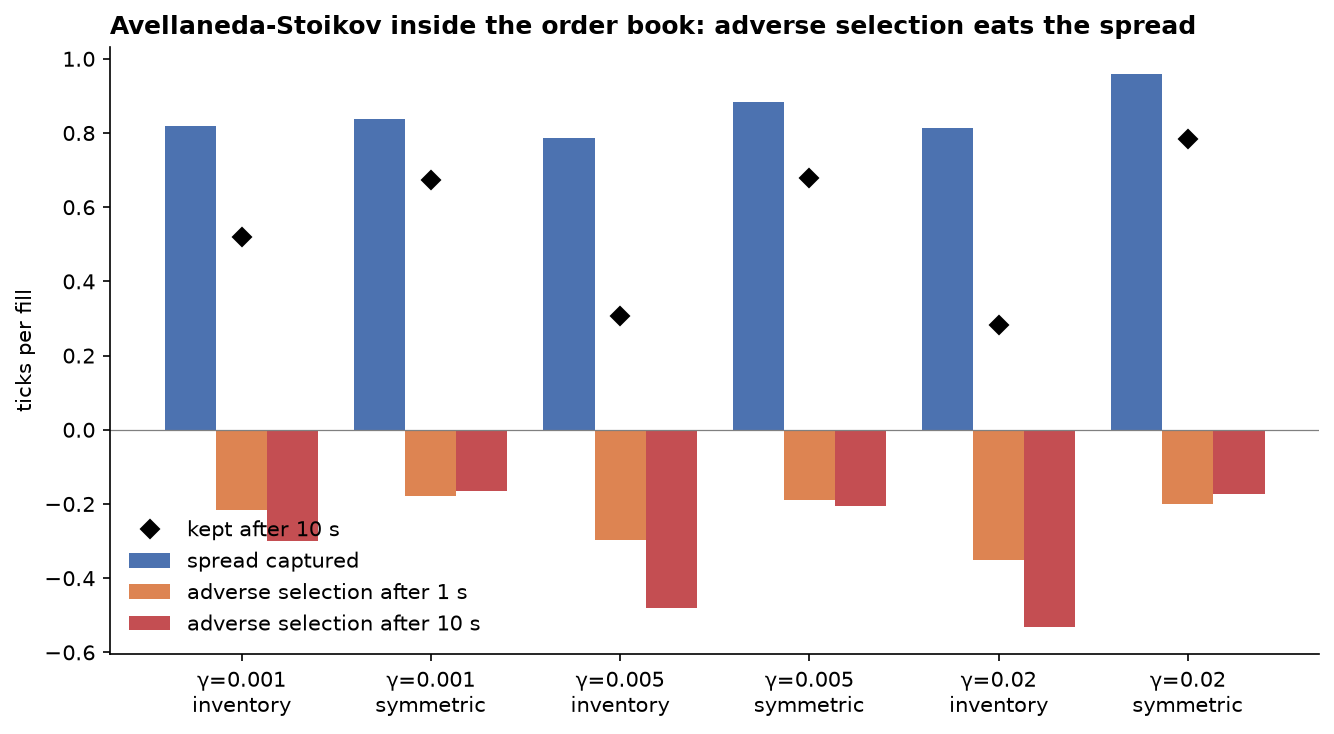
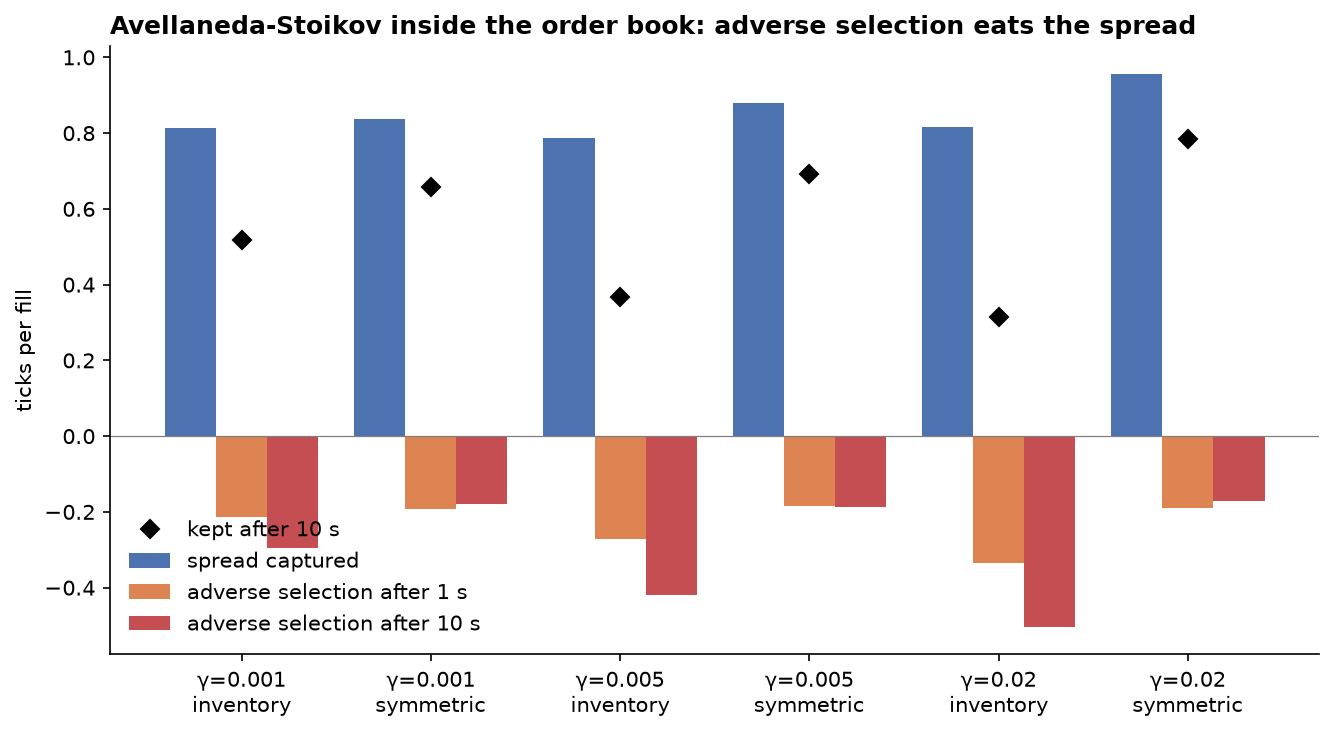
docs: rerun Study 4 with 2,500 episodes per row (#12)
The 200-episode table was noisy: the gamma=0.005 inventory mean (19.4,
seeds 0-199) is about 3.5 standard errors below its 2,500-episode value
(22.6 +/- 0.26), found by quant-stack's S7. Example 05 now runs 2,500
episodes per row; the table, the chart and every range quoted from them
are regenerated. Inventory control costs 32-40% of mean P&L (was 33-45%);
the conclusions are unchanged. No package code changes.

diff --git a/examples/05_market_making_in_lob.py b/examples/05_market_making_in_lob.py
@@ -20,7 +20,7 @@ rows = []
 for gamma in (0.001, 0.005, 0.02):
     p = ASParams(T=300.0, sigma=sigma, gamma=gamma, k=k, A=A)
     for strategy in ("inventory", "symmetric"):
-        d = simulate_as_lob(p, strategy, n_episodes=200)
+        d = simulate_as_lob(p, strategy, n_episodes=2500)
         rows.append({"gamma": gamma, "strategy": strategy, "spread_t0": optimal_spread(0, p),
                      "mean_pnl": d["pnl"].mean(), "std_pnl": d["pnl"].std(), "std_final_q": d["final_q"].std(),
                      "fills": d["n_fills"].mean(), "spread_capture": d["spread_capture"].mean(),

diff --git a/README.md b/README.md
@@ -176,34 +176,34 @@ order reaches it.
 
 The paper's inputs are calibrated on the book itself: σ = 1.08 ticks/√s from 1-second mid
 changes; A = 0.59 fills/s and k = 1.39 per tick from a quoter resting at fixed distances from the
-mid. Episodes last T = 300 s, 200 per row:
+mid. Episodes last T = 300 s, 2,500 per row:
 
 | γ | Strategy | Mean P&L | Std P&L | Std final inventory | Fills | Spread captured | Adverse sel. 1 s | Adverse sel. 10 s | Kept |
 |---|---|---|---|---|---|---|---|---|---|
-| 0.001 | inventory | 30.1 | 25.9 | 4.0 | 71 | 0.82 | −0.21 | −0.30 | 63% |
-| 0.001 | symmetric | 46.5 | 58.3 | 7.2 | 70 | 0.84 | −0.18 | −0.17 | 80% |
-| **0.005** | **inventory** | **19.4** | **13.3** | **2.4** | **64** | **0.79** | **−0.30** | **−0.48** | **39%** |
-| **0.005** | **symmetric** | **28.9** | **59.0** | **6.9** | **51** | **0.88** | **−0.19** | **−0.20** | **77%** |
-| 0.02 | inventory | 8.0 | 7.5 | 1.4 | 26 | 0.81 | −0.35 | −0.53 | 35% |
-| 0.02 | symmetric | 14.5 | 25.9 | 4.1 | 18 | 0.96 | −0.20 | −0.17 | 82% |
+| 0.001 | inventory | 31.6 | 24.6 | 3.7 | 72 | 0.81 | −0.21 | −0.30 | 64% |
+| 0.001 | symmetric | 46.2 | 66.7 | 7.4 | 70 | 0.84 | −0.19 | −0.18 | 79% |
+| **0.005** | **inventory** | **22.6** | **13.1** | **2.3** | **63** | **0.79** | **−0.27** | **−0.42** | **47%** |
+| **0.005** | **symmetric** | **36.8** | **55.8** | **6.7** | **51** | **0.88** | **−0.19** | **−0.19** | **79%** |
+| 0.02 | inventory | 8.5 | 7.0 | 1.5 | 25 | 0.82 | −0.34 | −0.50 | 38% |
+| 0.02 | symmetric | 14.0 | 26.2 | 4.0 | 18 | 0.96 | −0.19 | −0.17 | 82% |
 
 (P&L in ticks; spread captured and adverse selection in ticks per fill; "kept" is after 10 s. Markouts
 leave out fills too close to the end of an episode to have a full horizon.)
 
-**Inventory control still works.** The skewed quoter cuts P&L volatility by 2.3–4.4× and final
-inventory by 1.8–2.9×, as in the paper.
+**Inventory control still works.** The skewed quoter cuts P&L volatility by 2.7–4.3× and final
+inventory by 2.0–2.9×, as in the paper.
 
 **But it pays for it in adverse selection.** Every fill captures 0.79–0.96 ticks against the mid
 at that moment. Ten seconds later the symmetric quoter has given back about a fifth of that; the
-inventory quoter gives back 37–65%. To unload inventory it quotes aggressively on one side, often
+inventory quoter gives back 36–62%. To unload inventory it quotes aggressively on one side, often
 alone at a new best price, and an order alone at the front is the first to be hit when the price
-moves. As a result inventory control costs 33–45% of mean P&L here, against about 5% in the
+moves. As a result inventory control costs 32–40% of mean P&L here, against about 5% in the
 paper's model (Study 2), where a fill says little about the next price move.
 
 **The two costs have different clocks.** The symmetric quoter's loss is complete within a second
-(−0.17 to −0.21 ticks at both horizons): it is the tick the price jumps when the quoter's queue
-is used up. The inventory quoter loses −0.21 to −0.35 in the first second and keeps losing until
-−0.30 to −0.53 at ten seconds, so its fills come before sustained moves, not just a one-tick jump.
+(−0.17 to −0.19 ticks at both horizons): it is the tick the price jumps when the quoter's queue
+is used up. The inventory quoter loses −0.21 to −0.34 in the first second and keeps losing until
+−0.30 to −0.50 at ten seconds, so its fills come before sustained moves, not just a one-tick jump.
 
 ![AS in the LOB](https://raw.githubusercontent.com/hossainyousuf751/microstructure-lab/main/docs/as_in_lob.png)
 
